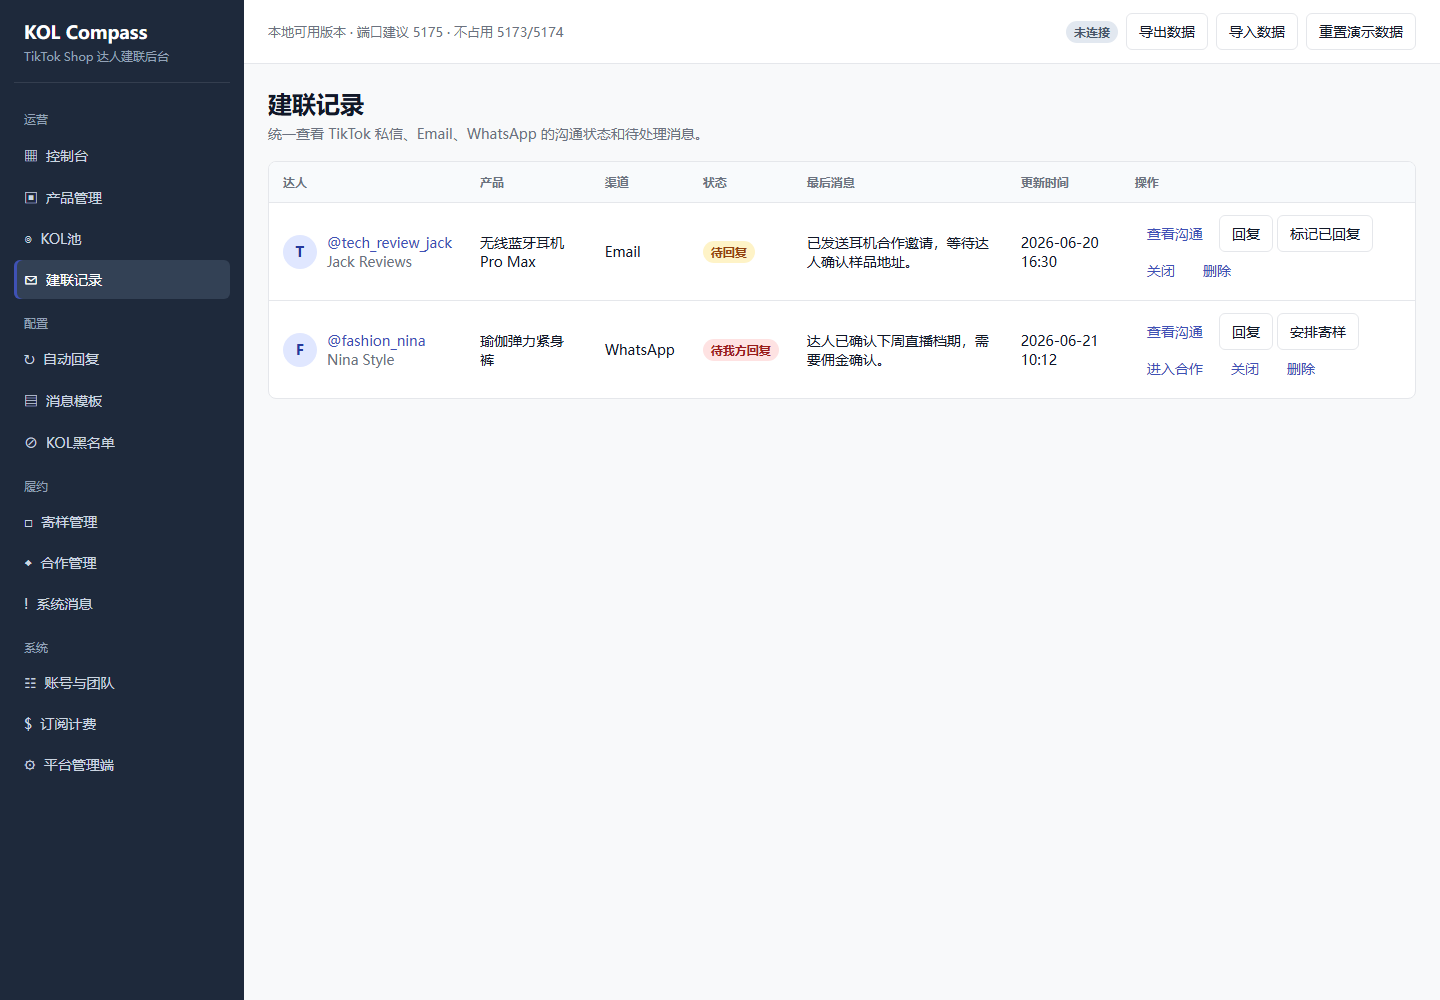
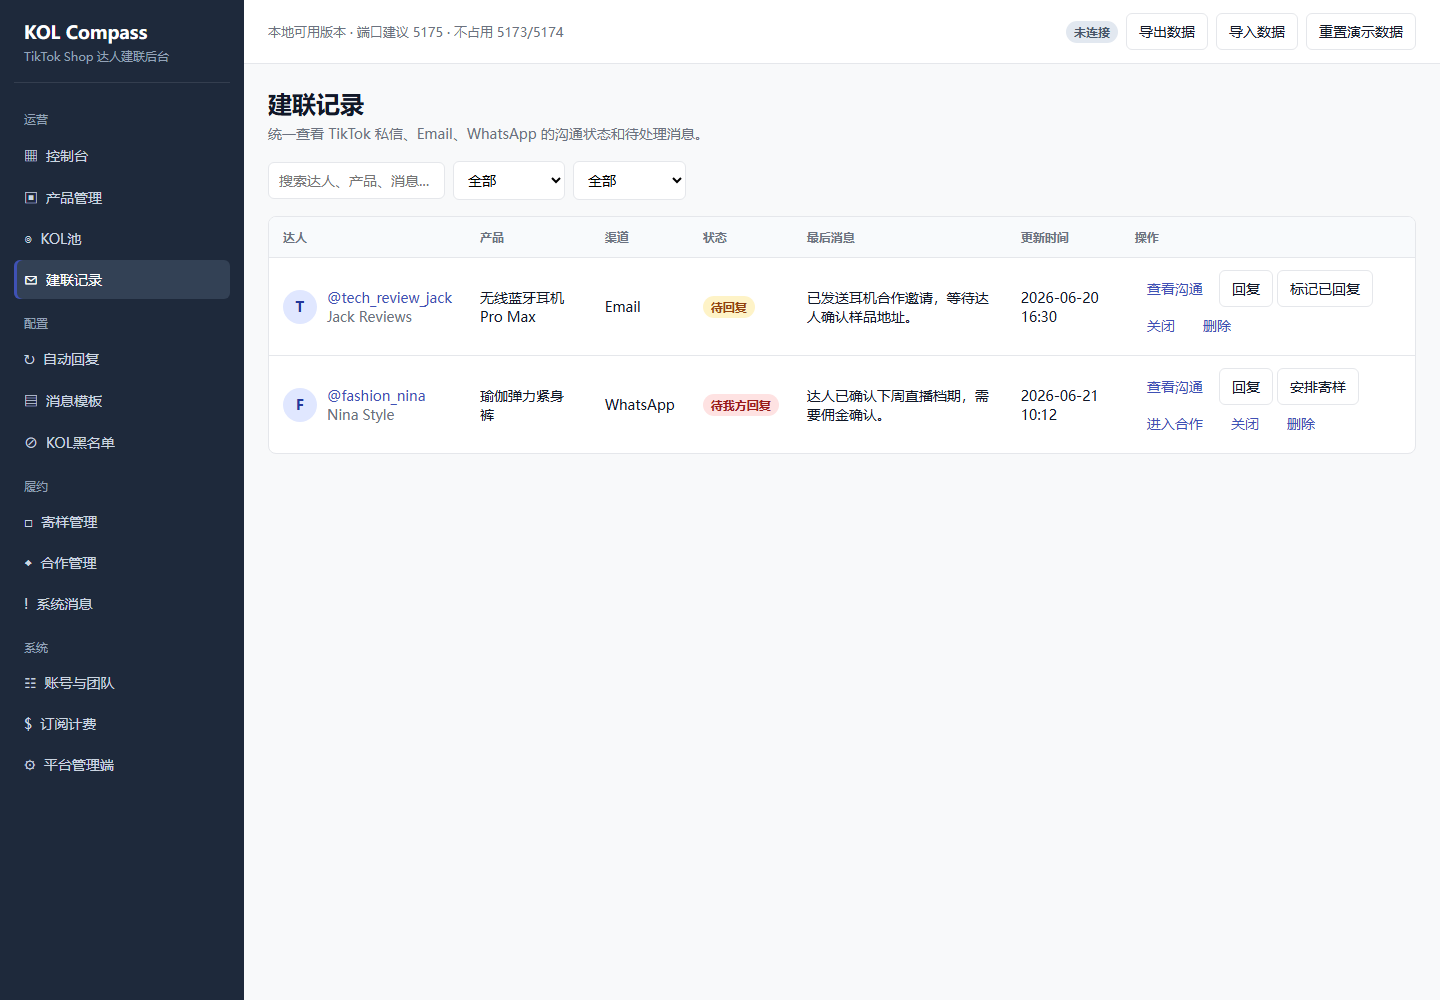
Add outreach list filters

diff --git a/app.js b/app.js
@@ -43,6 +43,9 @@ const seed = {
     kolRegion: "全部",
     kolFollowers: "全部",
     kolReplyRate: "全部",
+    outreachSearch: "",
+    outreachStatus: "全部",
+    outreachChannel: "全部",
     coopStatus: "全部",
     coopTag: "全部",
   },
@@ -476,9 +479,31 @@ function renderKolPool() {
 }
 
 function renderOutreach() {
+  const channels = Array.from(new Set(state.outreach.map((o) => o.channel).filter(Boolean)));
+  const statuses = Array.from(new Set(state.outreach.map((o) => o.status).filter(Boolean)));
+  const rows = state.outreach.filter((o) => {
+    const c = creator(o.creatorId);
+    const p = product(o.productId);
+    const kw = state.filters.outreachSearch.trim().toLowerCase();
+    const kwOk = !kw || [c?.username, c?.nickname, p?.name, o.lastMessage].join(" ").toLowerCase().includes(kw);
+    const statusOk = state.filters.outreachStatus === "全部" || o.status === state.filters.outreachStatus;
+    const channelOk = state.filters.outreachChannel === "全部" || o.channel === state.filters.outreachChannel;
+    return kwOk && statusOk && channelOk;
+  });
   return `
     ${pageHead("建联记录", "统一查看 TikTok 私信、Email、WhatsApp 的沟通状态和待处理消息。")}
-    ${table(["达人", "产品", "渠道", "状态", "最后消息", "更新时间", "操作"], state.outreach.map((o) => [
+    <div class="toolbar">
+      <div class="filters">
+        <input class="input" placeholder="搜索达人、产品、消息..." value="${escapeHtml(state.filters.outreachSearch)}" oninput="setFilter('outreachSearch', this.value)" />
+        <select class="select" onchange="setFilter('outreachStatus', this.value)">
+          ${["全部", ...statuses].map((x) => `<option ${state.filters.outreachStatus === x ? "selected" : ""}>${escapeHtml(x)}</option>`).join("")}
+        </select>
+        <select class="select" onchange="setFilter('outreachChannel', this.value)">
+          ${["全部", ...channels].map((x) => `<option ${state.filters.outreachChannel === x ? "selected" : ""}>${escapeHtml(x)}</option>`).join("")}
+        </select>
+      </div>
+    </div>
+    ${table(["达人", "产品", "渠道", "状态", "最后消息", "更新时间", "操作"], rows.map((o) => [
       personCell(creator(o.creatorId)),
       product(o.productId)?.name || "-",
       o.channel,

diff --git a/smoke-test.js b/smoke-test.js
@@ -68,6 +68,7 @@ async function main() {
   assert("KOL pool multi-dimensional filters supported", ["kolCategory", "kolRegion", "kolFollowers", "kolReplyRate", "creatorFollowerTierOk", "creatorReplyRateOk"].every((name) => app.includes(name)));
   assert("KOL pool batch outreach supported", ["toggleCreatorSelection", "openOutreachModal", "saveOutreach", "renderTemplate"].every((name) => app.includes(`function ${name}`)) && app.includes("一键建联"));
   assert("outreach replies supported", ["openReplyModal", "saveReply", "replyChannelOptions"].every((name) => app.includes(`function ${name}`)) && app.includes("回复达人"));
+  assert("outreach filters supported", ["outreachSearch", "outreachStatus", "outreachChannel"].every((name) => app.includes(name)) && app.includes("搜索达人、产品、消息"));
   assert("outreach workflow advances to sample and cooperation", ["advanceOutreach", "createSampleFromOutreach", "createCoopFromOutreach", "deleteOutreach"].every((name) => app.includes(`function ${name}`)));
   assert("sample workflow supports edit and cooperation handoff", ["openSampleModal", "saveSample", "createCoopFromSample", "deleteSample"].every((name) => app.includes(`function ${name}`)));
   assert("CSV imports supported", app.includes("function importCreatorsCsv") && app.includes("function importCoopsCsv") && app.includes("parseCsv"));

diff --git a/docs/PROJECT_MEMORY.md b/docs/PROJECT_MEMORY.md
@@ -1,6 +1,6 @@
 # KOL Compass 项目记忆
 
-更新时间：2026-06-21 19:14 CST
+更新时间：2026-06-21 19:17 CST
 
 ## 当前工作目录
 
@@ -42,7 +42,7 @@ node smoke-test.js
 - `node smoke-test.js` 全部通过。
 - 产品管理截图 `smoke-products.png` 已生成并目视检查通过。
 - 合作管理截图 `smoke-cooperations.png` 已重新生成并目视检查通过。
-- 建联记录截图 `smoke-outreach.png` 已生成并目视检查通过。
+- 建联记录截图 `smoke-outreach.png` 已重新生成并目视检查通过。
 - KOL 池截图 `smoke-kol-pool.png` 已重新生成并目视检查通过。
 - KOL 详情截图 `smoke-kol-detail.png` 已重新生成并目视检查通过。
 - 寄样管理截图 `smoke-samples.png` 已生成并目视检查通过。
@@ -52,6 +52,7 @@ node smoke-test.js
 - 内容追踪只放在合作管理。
 - 产品管理已支持按产品关键词、类目、状态、合作模式筛选，并明确提示真实数据来自 TikTok Shop Partner API。
 - KOL 池已支持按关键词、达人类型、类目、地区、粉丝量级、回复率区间筛选。
+- 建联记录已支持按达人/产品/消息关键词、沟通状态、渠道筛选。
 - KOL 池和合作管理已支持 CSV 导入。
 - KOL 池已支持勾选达人、一键建联、选择产品/模板/渠道、定时发送记录和附加邀请链接。
 - 达人联系方式已支持在编辑弹窗录入 Email / WhatsApp。

diff --git a/README.md b/README.md
@@ -69,6 +69,7 @@ KOL CSV 支持表头：
 - 产品管理支持搜索、类目筛选、状态筛选和合作模式筛选；未授权时仅使用本地数据，不伪造 TikTok API 同步成功。
 - KOL池支持导入 KOL CSV、关键词/达人类型/类目/地区/粉丝量级/回复率筛选、勾选达人、一键建联、选择产品/模板/渠道、定时发送记录和附加邀请链接；合作管理支持导入合作 CSV。
 - 达人编辑弹窗支持录入 Email / WhatsApp；建联记录和 KOL 详情沟通记录支持直接回复。
+- 建联记录支持按达人/产品/消息关键词、沟通状态和渠道筛选。
 - 建联记录支持从沟通状态推进到寄样或合作；寄样管理支持从已签收样品进入合作管理。
 - 已覆盖控制台、产品管理、KOL池、建联记录、自动回复、消息模板、黑名单、寄样管理、合作管理、系统消息、账号团队、订阅计费、平台管理端。
 - 合作管理是内容追踪唯一主入口，包含已产出/未产出、视频、直播、GMV、订单、佣金、ROI 和自定义标签筛选。

diff --git a/docs/ACCEPTANCE_REPORT.md b/docs/ACCEPTANCE_REPORT.md
@@ -125,6 +125,7 @@ node smoke-test.js
 - 产品管理支持产品搜索、类目筛选、状态筛选和合作模式筛选
 - KOL详情和达人编辑弹窗支持录入 Email / WhatsApp
 - 建联记录和KOL详情沟通记录支持直接回复
+- 建联记录支持按达人/产品/消息关键词、沟通状态、渠道筛选
 - KOL池和合作管理包含 CSV 导入能力
 - 建联记录支持标记已回复、安排寄样、进入合作、关闭和删除
 - 寄样管理支持新增/更新、删除、已签收后进入合作

diff --git a/docs/CLAUDE_CONTINUE.md b/docs/CLAUDE_CONTINUE.md
@@ -101,6 +101,7 @@ P0：
    - 附加邀请链接时自动进入合作管理
 6. 保持沟通闭环：
    - 达人编辑弹窗可录入 Email / WhatsApp
+   - 建联记录可按达人/产品/消息关键词、沟通状态、渠道筛选
    - 建联记录可直接回复
    - KOL 详情沟通记录可直接回复
    - 回复后沟通状态回到待达人回复
